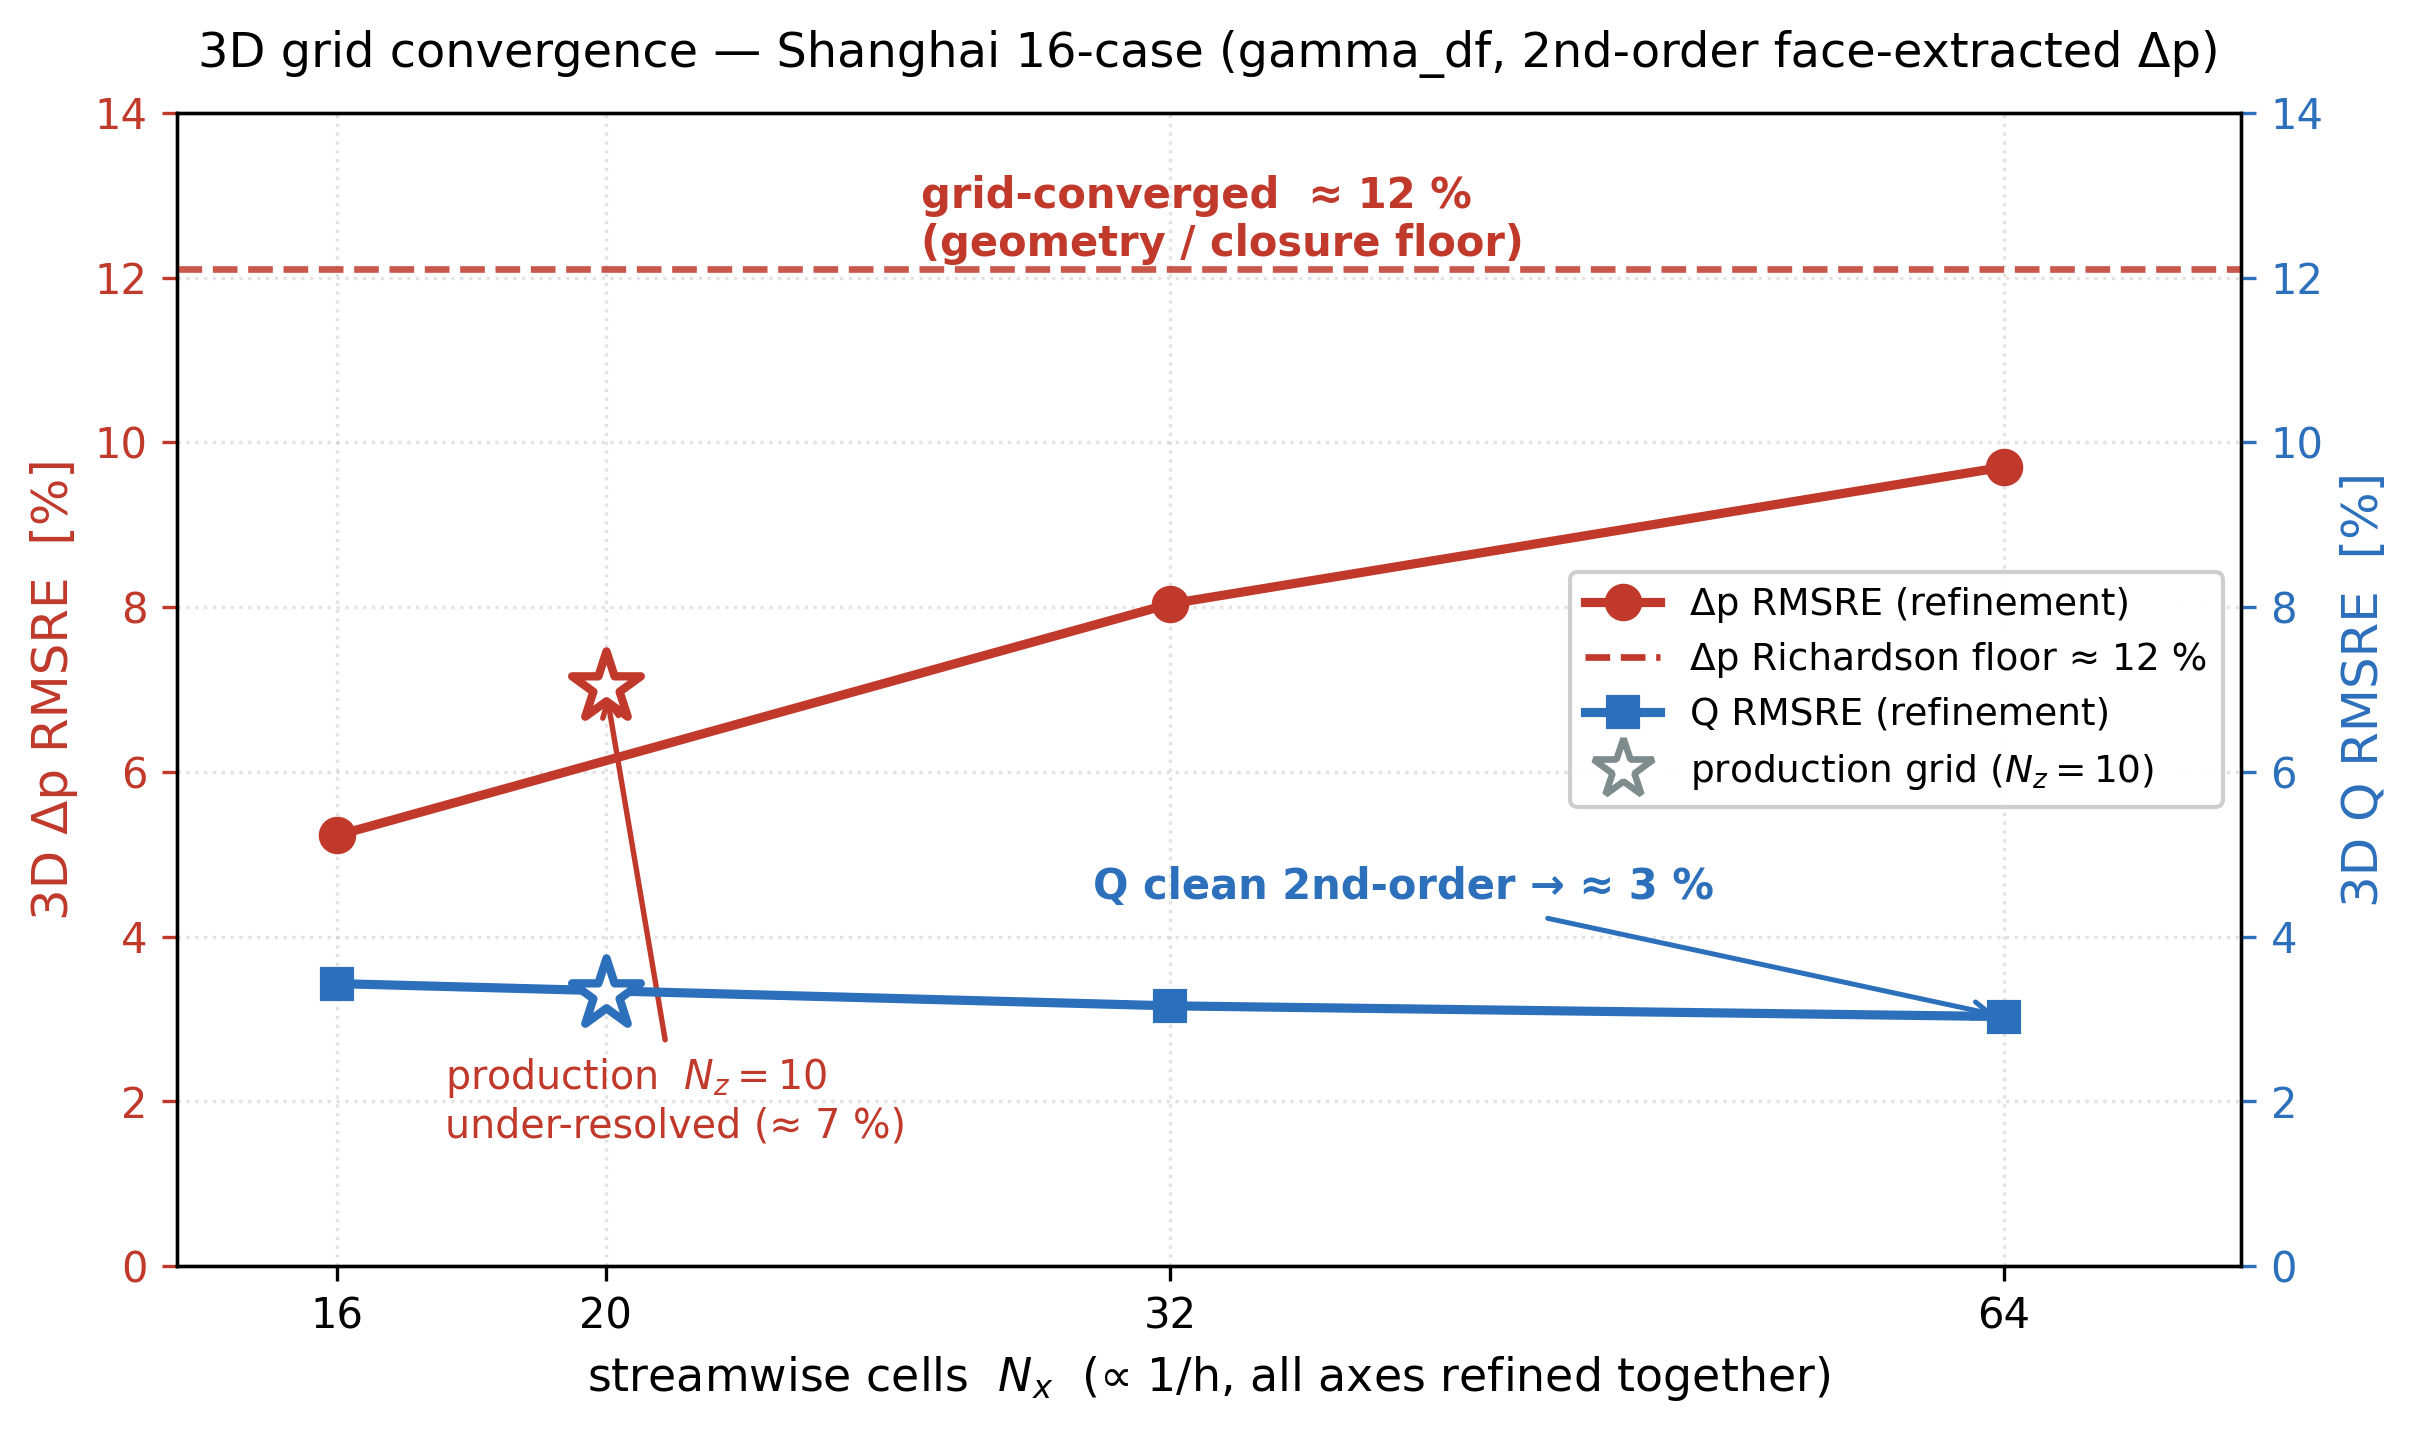
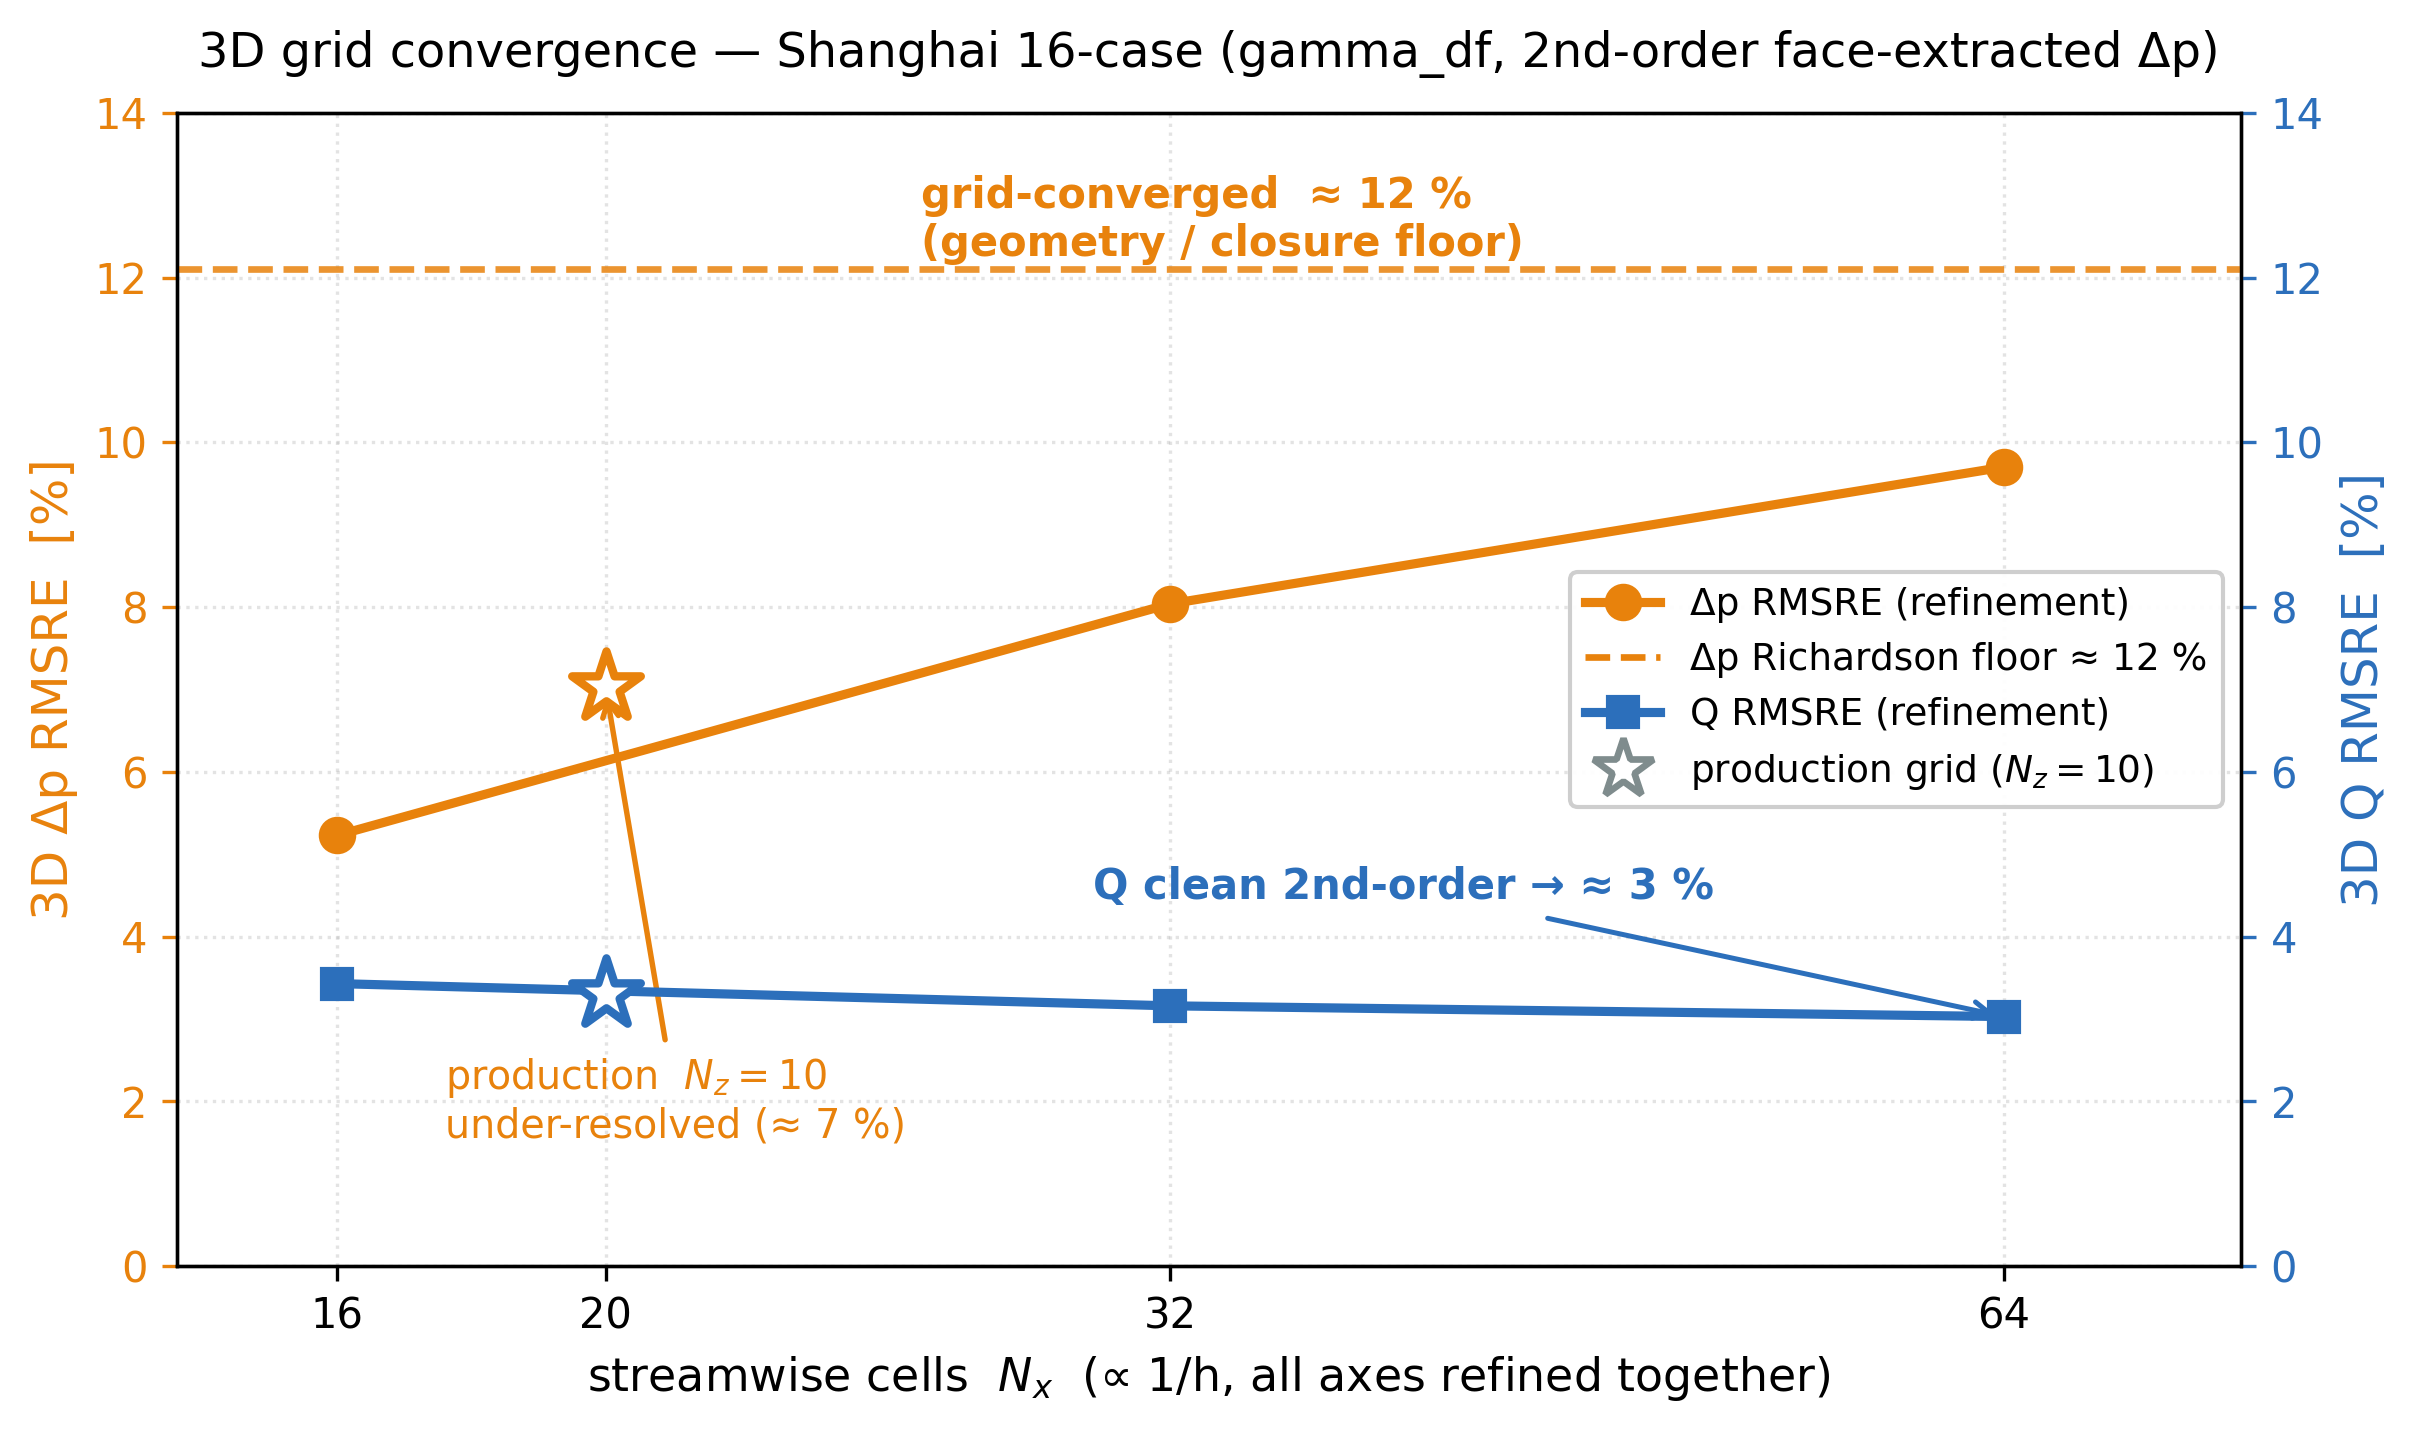
docs(readme): add gamma_df parity error-analysis figure + recolor (orange/blue)
* New assets/gammadf-error.png — per-case parity (model vs experiment) for the
  gamma_df closure over the Shanghai 16 cases at the finest grid (64x32x16):
    - Δp panel (log-log, spans 2 decades): RMSRE 9.7%, high-Δp cases sit ~10%
      low — the systematic under-prediction that is the ~12% grid-converged floor;
    - Q panel (linear): RMSRE 2.9%, all 16 within ±5%.
  Embedded under the grid-convergence figure. PNG dpi=300.

* Recolor grid-convergence.png to orange (Δp) / blue (Q) per request — was
  red/blue; now consistent with the parity figure's palette.

diff --git a/README.md b/README.md
@@ -58,6 +58,12 @@
 
 <sub>All-axis (r=2) refinement. **Δp** RMSRE climbs to a **≈ 12 % geometry / closure floor** (Richardson, p<sub>obs</sub> ≈ 0.76) — the production `Nz=10` grid (★, ≈ 7 %) is under-resolved. **Q** is a duty integral: clean 2nd-order, grid-converged at **≈ 3 %**.</sub>
 
+<br><br>
+
+<img src="assets/gammadf-error.png" width="93%" alt="gamma_df closure error analysis — per-case parity of model vs experimental Δp (orange, log-log, RMSRE 9.7%) and Q (blue, RMSRE 2.9%) across the Shanghai 16 cases at the finest 64x32x16 grid.">
+
+<sub>**gamma_df** closure per-case parity at the finest computed grid (64×32×16). **Δp** (orange) tracks experiment across two decades — the high-Δp cases sit ≈ 10 % low, the systematic under-prediction that is the ≈ 12 % grid-converged floor. **Q** (blue) lies within ±5 % (RMSRE ≈ 3 %).</sub>
+
 </div>
 
 ---
